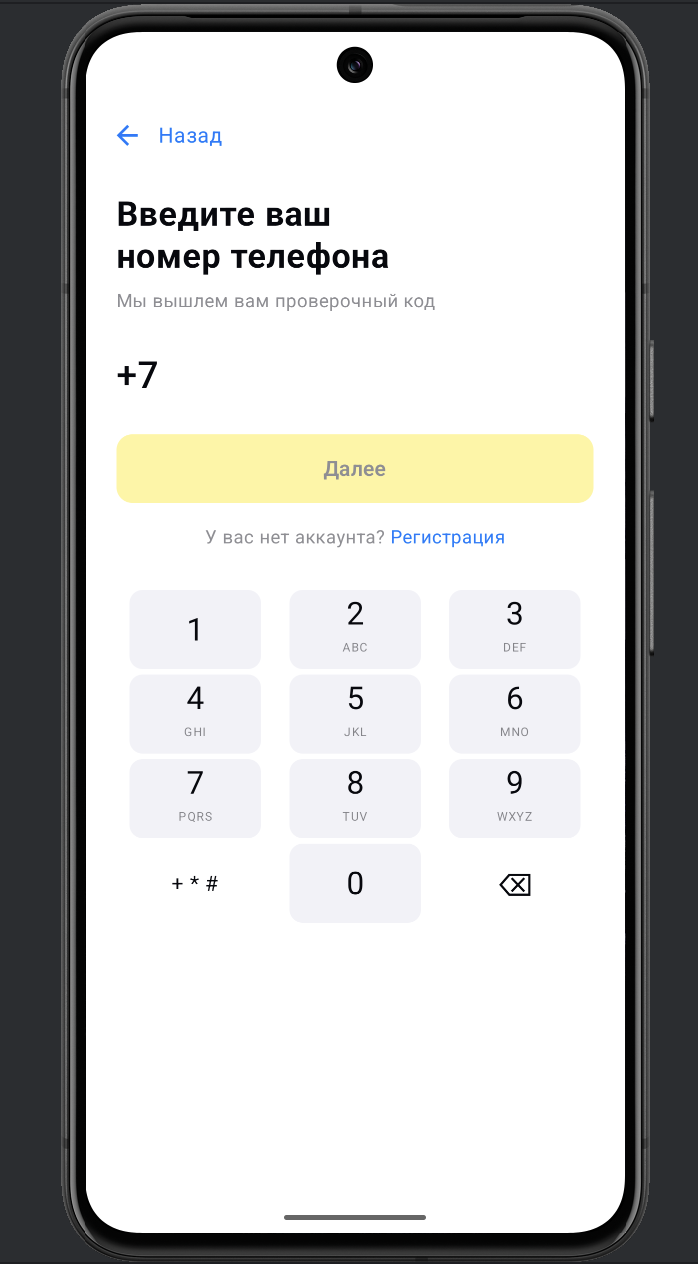
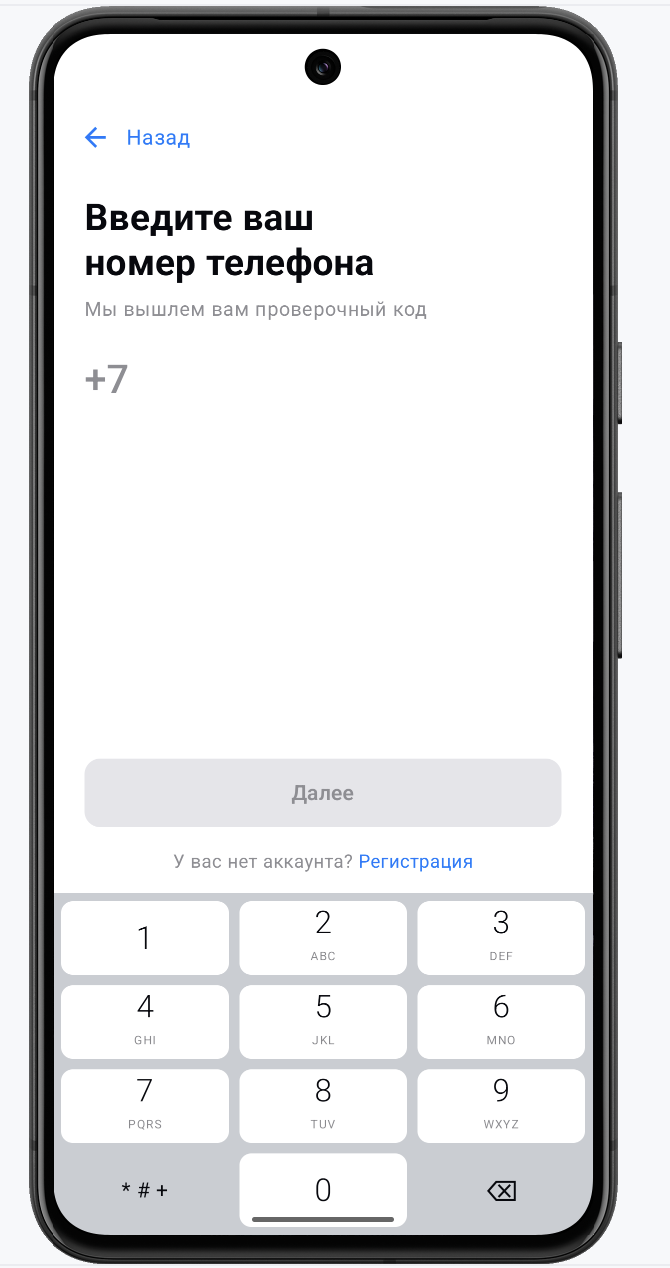
Final

diff --git a/app/src/main/java/com/example/livebeer/feature/auth/login/LoginScreen.kt b/app/src/main/java/com/example/livebeer/feature/auth/login/LoginScreen.kt
@@ -23,11 +23,10 @@ import kotlinx.coroutines.delay
 import kotlinx.coroutines.launch
 
 private val Yellow = Color(0xFFFFE000)
-private val YellowOff = Color(0xFFFFF59D)
 private val Dark = Color(0xFF07080D)
 private val Gray = Color(0xFF8E8E93)
-private val KeyBg = Color(0xFFF2F2F7)
 private val Blue = Color(0xFF007AFF)
+private val KeyBg = Color(0xFFFFFFFF)
 
 @Composable
 fun LoginScreen(
@@ -40,15 +39,18 @@ fun LoginScreen(
     var isError by remember { mutableStateOf(false) }
     val scope = rememberCoroutineScope()
 
-    val formatted = buildString {
-        append("+7 ")
-        if (phone.isNotEmpty()) {
-            append("(")
-            append(phone.take(3))
-            if (phone.length >= 3) append(")")
-            if (phone.length > 3) append(" ${phone.substring(3, minOf(6, phone.length))}")
-            if (phone.length > 6) append(" ${phone.substring(6, minOf(8, phone.length))}")
-            if (phone.length > 8) append(" ${phone.substring(8, minOf(10, phone.length))}")
+    // +7 серый, введённые цифры тёмные
+    val formattedAnnotated = buildAnnotatedString {
+        withStyle(SpanStyle(color = if (isError) Color(0xFFFF3B30) else Gray)) { append("+7 ") }
+        withStyle(SpanStyle(color = if (isError) Color(0xFFFF3B30) else Dark)) {
+            if (phone.isNotEmpty()) {
+                append("(")
+                append(phone.take(3))
+                if (phone.length >= 3) append(")")
+                if (phone.length > 3) append(" ${phone.substring(3, minOf(6, phone.length))}")
+                if (phone.length > 6) append(" ${phone.substring(6, minOf(8, phone.length))}")
+                if (phone.length > 8) append(" ${phone.substring(8, minOf(10, phone.length))}")
+            }
         }
     }
 
@@ -74,31 +76,34 @@ fun LoginScreen(
         Column(modifier = Modifier.fillMaxWidth().padding(horizontal = 24.dp)) {
             Text(
                 text = "Введите ваш\nномер телефона",
-                fontSize = 26.sp,
+                fontSize = 28.sp,
                 fontWeight = FontWeight.Bold,
                 color = Dark,
-                lineHeight = 32.sp
+                lineHeight = 34.sp
             )
             Spacer(modifier = Modifier.height(6.dp))
-            Text("Мы вышлем вам проверочный код", fontSize = 14.sp, color = Gray)
+            Text("Мы вышлем вам проверочный код", fontSize = 15.sp, color = Gray)
         }
 
-        Spacer(modifier = Modifier.height(28.dp))
+        Spacer(modifier = Modifier.height(24.dp))
 
         Column(modifier = Modifier.fillMaxWidth().padding(horizontal = 24.dp)) {
             Text(
-                text = formatted,
-                fontSize = 28.sp,
-                fontWeight = FontWeight.Medium,
-                color = if (isError) Color.Red else Dark
+                text = formattedAnnotated,
+                fontSize = 30.sp,
+                fontWeight = FontWeight.Medium
             )
             if (isError) {
                 Spacer(modifier = Modifier.height(6.dp))
-                Text("Указанный вами номер не найден", color = Color.Red, fontSize = 13.sp)
+                Text(
+                    "Указанный вами номер не найден",
+                    color = Color(0xFFFF3B30),
+                    fontSize = 13.sp
+                )
             }
         }
 
-        Spacer(modifier = Modifier.height(28.dp))
+        Spacer(modifier = Modifier.weight(1f))
 
         Button(
             onClick = {
@@ -110,12 +115,15 @@ fun LoginScreen(
                     isLoading = false
                 }
             },
-            modifier = Modifier.fillMaxWidth().padding(horizontal = 24.dp).height(52.dp),
+            modifier = Modifier
+                .fillMaxWidth()
+                .padding(horizontal = 24.dp)
+                .height(52.dp),
             enabled = phone.length == 10 && !isLoading,
             colors = ButtonDefaults.buttonColors(
                 containerColor = Yellow,
                 contentColor = Dark,
-                disabledContainerColor = YellowOff,
+                disabledContainerColor = Color(0xFFE5E5EA),
                 disabledContentColor = Gray
             ),
             shape = RoundedCornerShape(12.dp)
@@ -131,18 +139,17 @@ fun LoginScreen(
 
         Text(
             text = buildAnnotatedString {
-                append("У вас нет аккаунта? ")
+                withStyle(SpanStyle(color = Gray)) { append("У вас нет аккаунта? ") }
                 withStyle(SpanStyle(color = Blue)) { append("Регистрация") }
             },
             fontSize = 14.sp,
-            color = Gray,
             modifier = Modifier.clickable { onRegister() }
         )
 
-        Spacer(modifier = Modifier.height(28.dp))
+        Spacer(modifier = Modifier.height(12.dp))
 
         PhoneKeyboard(
-            modifier = Modifier.fillMaxWidth().padding(horizontal = 12.dp),
+            modifier = Modifier.fillMaxWidth(),
             onNumberClick = { digit ->
                 if (phone.length < 10) { phone += digit; isError = false }
             },
@@ -161,20 +168,33 @@ private fun PhoneKeyboard(
         listOf("1" to "", "2" to "ABC", "3" to "DEF"),
         listOf("4" to "GHI", "5" to "JKL", "6" to "MNO"),
         listOf("7" to "PQRS", "8" to "TUV", "9" to "WXYZ"),
-        listOf("+ * #" to "", "0" to "", "⌫" to "")
+        listOf("sym" to "", "0" to "", "back" to "")
     )
 
-    Column(modifier = modifier, verticalArrangement = Arrangement.spacedBy(4.dp)) {
+    Column(
+        modifier = modifier
+            .background(Color(0xFFCACDD2))
+            .padding(horizontal = 6.dp, vertical = 6.dp),
+        verticalArrangement = Arrangement.spacedBy(8.dp)
+    ) {
         rows.forEach { row ->
-            Row(modifier = Modifier.fillMaxWidth(), horizontalArrangement = Arrangement.SpaceEvenly) {
-                row.forEach { (digit, letters) ->
-                    KeyboardKey(digit = digit, letters = letters, onClick = {
-                        when (digit) {
-                            "⌫" -> onBackspace()
-                            "+ * #" -> {}
-                            else -> onNumberClick(digit)
+            Row(
+                modifier = Modifier.fillMaxWidth(),
+                horizontalArrangement = Arrangement.spacedBy(8.dp)
+            ) {
+                row.forEach { (key, letters) ->
+                    KeyboardKey(
+                        modifier = Modifier.weight(1f),
+                        keyId = key,
+                        letters = letters,
+                        onClick = {
+                            when (key) {
+                                "back" -> onBackspace()
+                                "sym" -> {}
+                                else -> onNumberClick(key)
+                            }
                         }
-                    })
+                    )
                 }
             }
         }
@@ -182,31 +202,46 @@ private fun PhoneKeyboard(
 }
 
 @Composable
-private fun KeyboardKey(digit: String, letters: String, onClick: () -> Unit) {
+private fun KeyboardKey(
+    modifier: Modifier = Modifier,
+    keyId: String,
+    letters: String,
+    onClick: () -> Unit
+) {
+    val isSpecial = keyId == "sym" || keyId == "back"
+
     Box(
-        modifier = Modifier
-            .size(width = 100.dp, height = 60.dp)
+        modifier = modifier
+            .height(56.dp)
             .background(
-                color = if (digit == "⌫" || digit == "+ * #") Color.Transparent else KeyBg,
-                shape = RoundedCornerShape(10.dp)
+                color = if (isSpecial) Color.Transparent else KeyBg,
+                shape = RoundedCornerShape(9.dp)
             )
             .clickable { onClick() },
         contentAlignment = Alignment.Center
     ) {
-        Column(horizontalAlignment = Alignment.CenterHorizontally) {
-            Text(
-                text = digit,
-                fontSize = if (digit.length > 1) 16.sp else 24.sp,
-                fontWeight = FontWeight.Normal,
+        when (keyId) {
+            "back" -> Text(
+                text = "⌫",
+                fontSize = 22.sp,
                 color = Dark
             )
-            if (letters.isNotEmpty()) {
+            "sym" -> Text("* # +", fontSize = 16.sp, color = Dark, fontWeight = FontWeight.Normal)
+            else -> Column(horizontalAlignment = Alignment.CenterHorizontally) {
                 Text(
-                    text = letters,
-                    fontSize = 9.sp,
-                    color = Color(0xFF3C3C43).copy(alpha = 0.6f),
-                    letterSpacing = 1.sp
+                    text = keyId,
+                    fontSize = 24.sp,
+                    fontWeight = FontWeight.Light,
+                    color = Dark
                 )
+                if (letters.isNotEmpty()) {
+                    Text(
+                        text = letters,
+                        fontSize = 9.sp,
+                        color = Color(0xFF3C3C43).copy(alpha = 0.6f),
+                        letterSpacing = 1.sp
+                    )
+                }
             }
         }
     }

diff --git a/app/src/main/java/com/example/livebeer/feature/auth/register/RegisterScreen.kt b/app/src/main/java/com/example/livebeer/feature/auth/register/RegisterScreen.kt
@@ -25,7 +25,6 @@ import androidx.compose.ui.unit.sp
 import com.example.livebeer.core.ui.theme.LiveBeerTheme
 
 private val Yellow = Color(0xFFFFE000)
-private val YellowOff = Color(0xFFFFF59D)
 private val Dark = Color(0xFF07080D)
 private val Gray = Color(0xFF8E8E93)
 private val Blue = Color(0xFF007AFF)
@@ -90,7 +89,7 @@ fun RegisterScreen(
             Text("Назад", color = Blue, fontSize = 16.sp, modifier = Modifier.clickable { onBack() })
         }
 
-        Spacer(modifier = Modifier.height(8.dp))
+        Spacer(modifier = Modifier.height(16.dp))
 
         Column(
             modifier = Modifier
@@ -99,13 +98,13 @@ fun RegisterScreen(
         ) {
             Text(
                 text = "Регистрация\nаккаунта",
-                fontSize = 26.sp,
+                fontSize = 32.sp,
                 fontWeight = FontWeight.Bold,
                 color = Dark,
-                lineHeight = 32.sp
+                lineHeight = 38.sp
             )
-            Spacer(modifier = Modifier.height(4.dp))
-            Text("Заполните поля данных ниже", fontSize = 14.sp, color = Gray)
+            Spacer(modifier = Modifier.height(6.dp))
+            Text("Заполните поля данных ниже", fontSize = 15.sp, color = Gray)
 
             Spacer(modifier = Modifier.height(28.dp))
 
@@ -128,7 +127,7 @@ fun RegisterScreen(
             )
             if (phoneError) {
                 Spacer(modifier = Modifier.height(4.dp))
-                Text("Ошибка номера", color = Red, fontSize = 12.sp)
+                Text("Ошибка в номере", color = Red, fontSize = 12.sp)
             }
 
             Spacer(modifier = Modifier.height(16.dp))
@@ -186,13 +185,12 @@ fun RegisterScreen(
                 Spacer(modifier = Modifier.width(10.dp))
                 Text(
                     text = buildAnnotatedString {
-                        append("Я согласен с ")
+                        withStyle(SpanStyle(color = Gray)) { append("Я согласен с ") }
                         withStyle(SpanStyle(color = Blue)) {
-                            append("условиями обработки персональных данных")
+                            append("условиями обработки персональных данных.")
                         }
                     },
                     fontSize = 13.sp,
-                    color = Gray,
                     lineHeight = 18.sp
                 )
             }
@@ -209,7 +207,7 @@ fun RegisterScreen(
                 colors = ButtonDefaults.buttonColors(
                     containerColor = Yellow,
                     contentColor = Dark,
-                    disabledContainerColor = YellowOff,
+                    disabledContainerColor = Color(0xFFE5E5EA),
                     disabledContentColor = Gray
                 ),
                 shape = RoundedCornerShape(12.dp)

diff --git a/README.md b/README.md
@@ -2,6 +2,8 @@
   <img src="screenshots/welcome.png" width="260" />
   <img src="screenshots/login.png" width="260" />
   <img src="screenshots/register.png" width="260" />
+  <img src="screenshots/code.png" width="260" />
+  <img src="screenshots/codemain.png" width="260" />
   <img src="screenshots/main.png" width="260" />
 </p>
 
